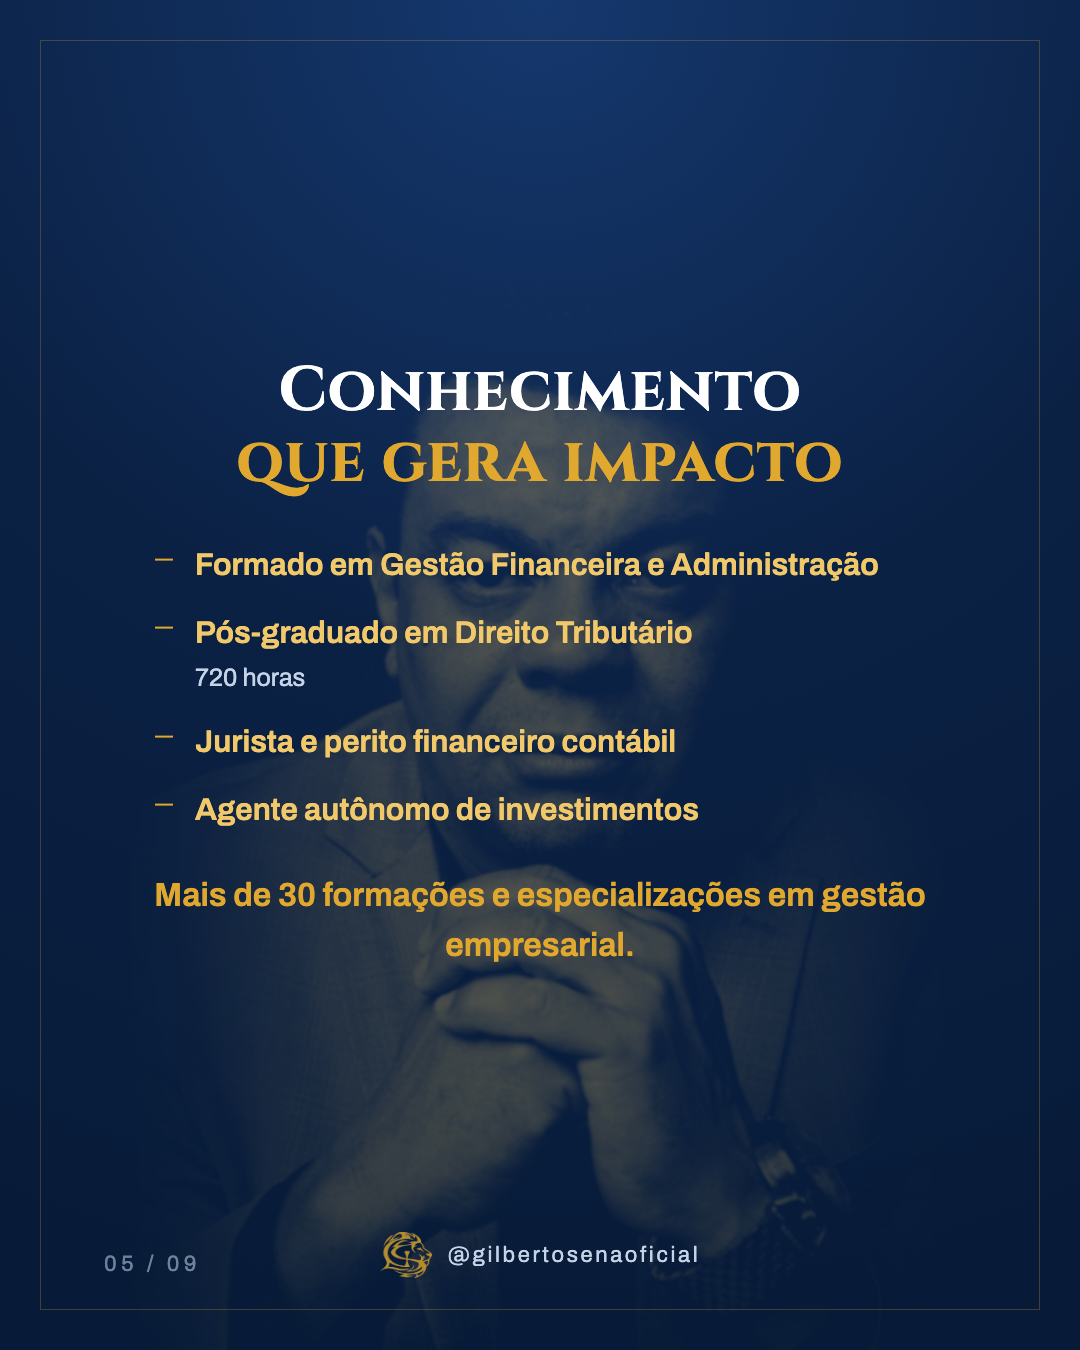
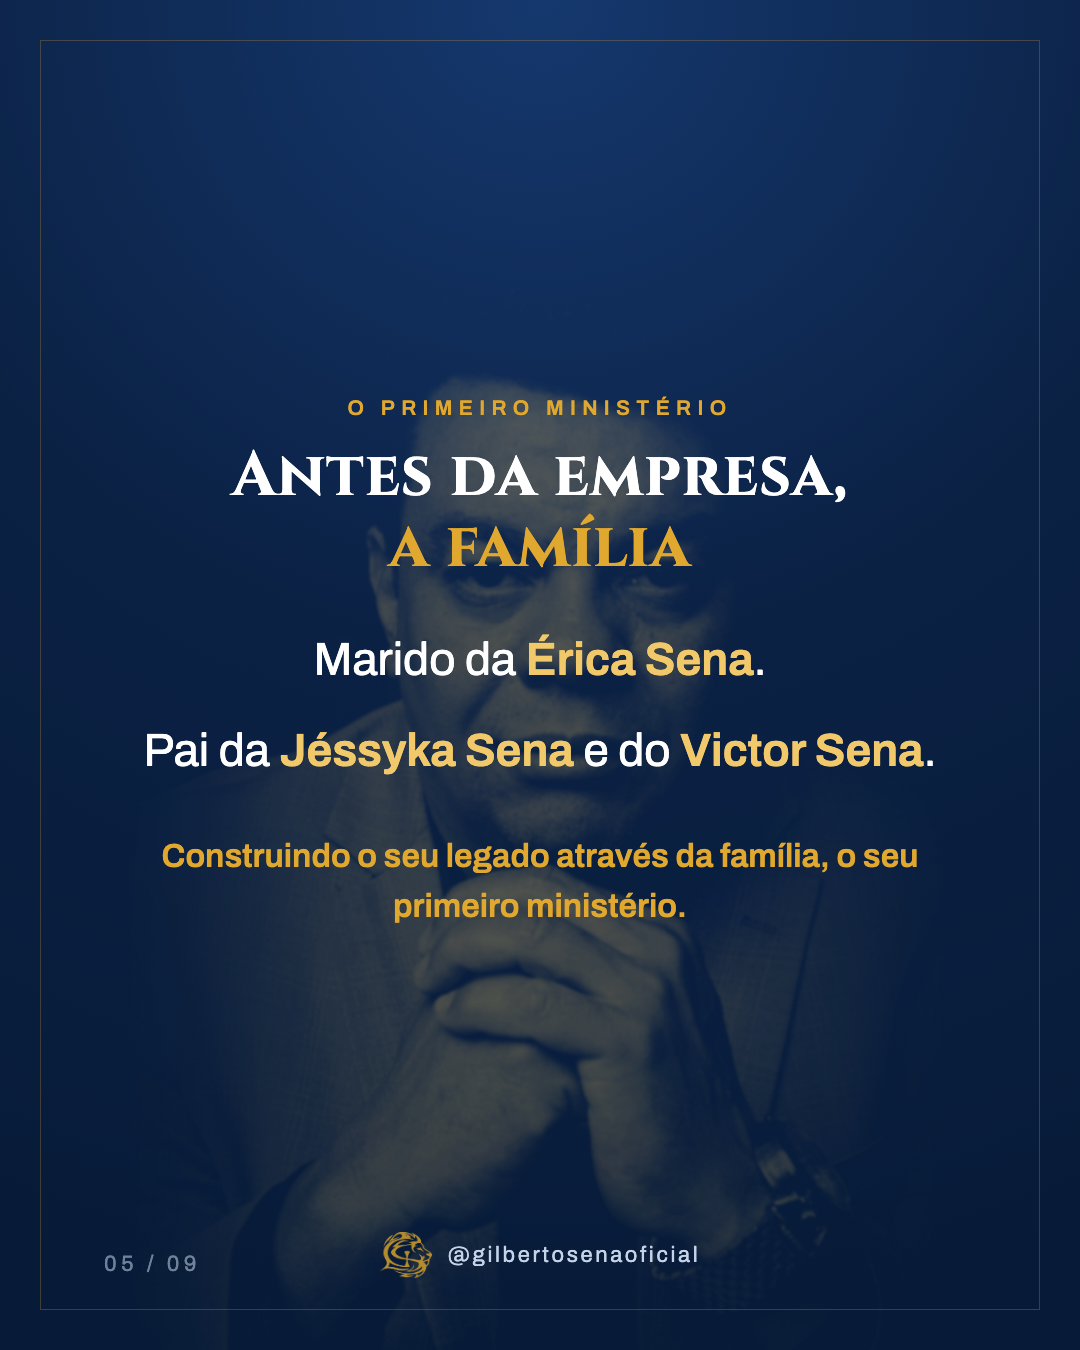
Carrossel quem e Gilberto: card 5 vira familia, card 7 perde as horas
Pedido dele. O card 5 era "Conhecimento que gera impacto" com lista de
formacoes - virou "Antes da empresa, a familia": marido da Erica, pai da
Jessyka e do Victor, construindo o legado atraves da familia, o primeiro
ministerio.

A troca resolveu uma repeticao de passagem: a lista de formacoes do card 5
era quase a mesma do card 6, que trata disso em detalhe.

No card 7 sairam as cargas horarias dos cursos. As 720h do card 6 ficaram,
porque ele pediu so o 7.

Usei Erica, Jessyka e Victor com acento, como estao em quem-e-gilberto.md.

9 cards regerados.

Changed region(s): [[0.1222, 0.2489, 0.8556, 0.7156]]

diff --git a/saidas/carrossel-quem-e-gilberto-2026-10-06/carrossel.html b/saidas/carrossel-quem-e-gilberto-2026-10-06/carrossel.html
@@ -118,15 +118,14 @@ const CARDS = [
   titular dos dois projetos.</p>`},
 
  {n:"05", classe:"g1",
-  titulo:'Conhecimento<span class="ouro">que gera impacto</span>',
-  html:`<ul>
-    <li><b>Formado em Gestão Financeira e Administração</b></li>
-    <li><b>Pós-graduado em Direito Tributário</b><span>720 horas</span></li>
-    <li><b>Jurista e perito financeiro contábil</b></li>
-    <li><b>Agente autônomo de investimentos</b></li>
-  </ul>
-  <p class="destaque" style="margin-top:38px">Mais de 30 formações e
-  especializações em gestão empresarial.</p>`},
+  selo:"O primeiro ministério",
+  titulo:'Antes da empresa,<span class="ouro">a família</span>',
+  html:`<p style="font-size:46px;line-height:1.4">Marido da
+        <b>Érica Sena</b>.</p>
+        <p style="font-size:46px;line-height:1.4">Pai da
+        <b>Jéssyka Sena</b> e do <b>Victor Sena</b>.</p>
+        <p class="destaque" style="margin-top:48px">Construindo o seu legado
+        através da família, o seu primeiro ministério.</p>`},
 
  {n:"06", classe:"g2",
   selo:"A base formal",
@@ -146,12 +145,10 @@ const CARDS = [
   selo:"2020",
   titulo:'O ano em que ele<span class="ouro">voltou a estudar</span>',
   html:`<ul>
-    <li><b>Tecnologia, Direito Digital e Propriedade Intelectual</b>
-        <span>trilha de 180 horas</span></li>
-    <li><b>Planejamento e Negócios Internacionais</b>
-        <span>trilha de 120 horas</span></li>
+    <li><b>Tecnologia, Direito Digital e Propriedade Intelectual</b></li>
+    <li><b>Planejamento e Negócios Internacionais</b></li>
     <li><b>Planejamento Estratégico e Processo da Criatividade</b></li>
-    <li><b>Expert XP</b><span>55,5 horas</span></li>
+    <li><b>Expert XP</b></li>
   </ul>
   <p class="fraco" style="margin-top:34px;font-size:28px">Tudo no mesmo
   semestre. Quem já tinha chegado resolveu começar de novo.</p>`},

diff --git a/saidas/carrossel-quem-e-gilberto-2026-10-06/README.md b/saidas/carrossel-quem-e-gilberto-2026-10-06/README.md
@@ -74,3 +74,25 @@ NODE_PATH="../../scripts/node_modules" node render.js
 ```
 
 Sai em `instagram/card-01.png` a `card-09.png`.
+
+---
+
+## Alterações de 13/out/2026
+
+**Card 05 trocado.** Era "Conhecimento que gera impacto", com a lista de
+formações. Virou **"Antes da empresa, a família"**: marido da Érica Sena, pai
+da Jéssyka Sena e do Victor Sena, construindo o legado através da família, o
+primeiro ministério.
+
+A troca também resolveu uma repetição: a lista de formações do card 05 era
+quase a mesma do card 06, que trata disso em detalhe. O carrossel ganhou a
+dimensão humana sem perder nada de credencial.
+
+**Card 07 sem as cargas horárias.** Saíram "trilha de 180 horas", "trilha de
+120 horas" e "55,5 horas". Os cursos continuam listados.
+
+⚠ **As 720h do card 06 ficaram**, porque ele pediu só o card 07.
+
+**Grafia dos nomes:** usei **Érica**, **Jéssyka** e **Victor**, como estão
+registrados em `_memoria/quem-e-gilberto.md`. Ele escreveu sem acento no
+pedido, mas ele escreve sem acento em geral.
